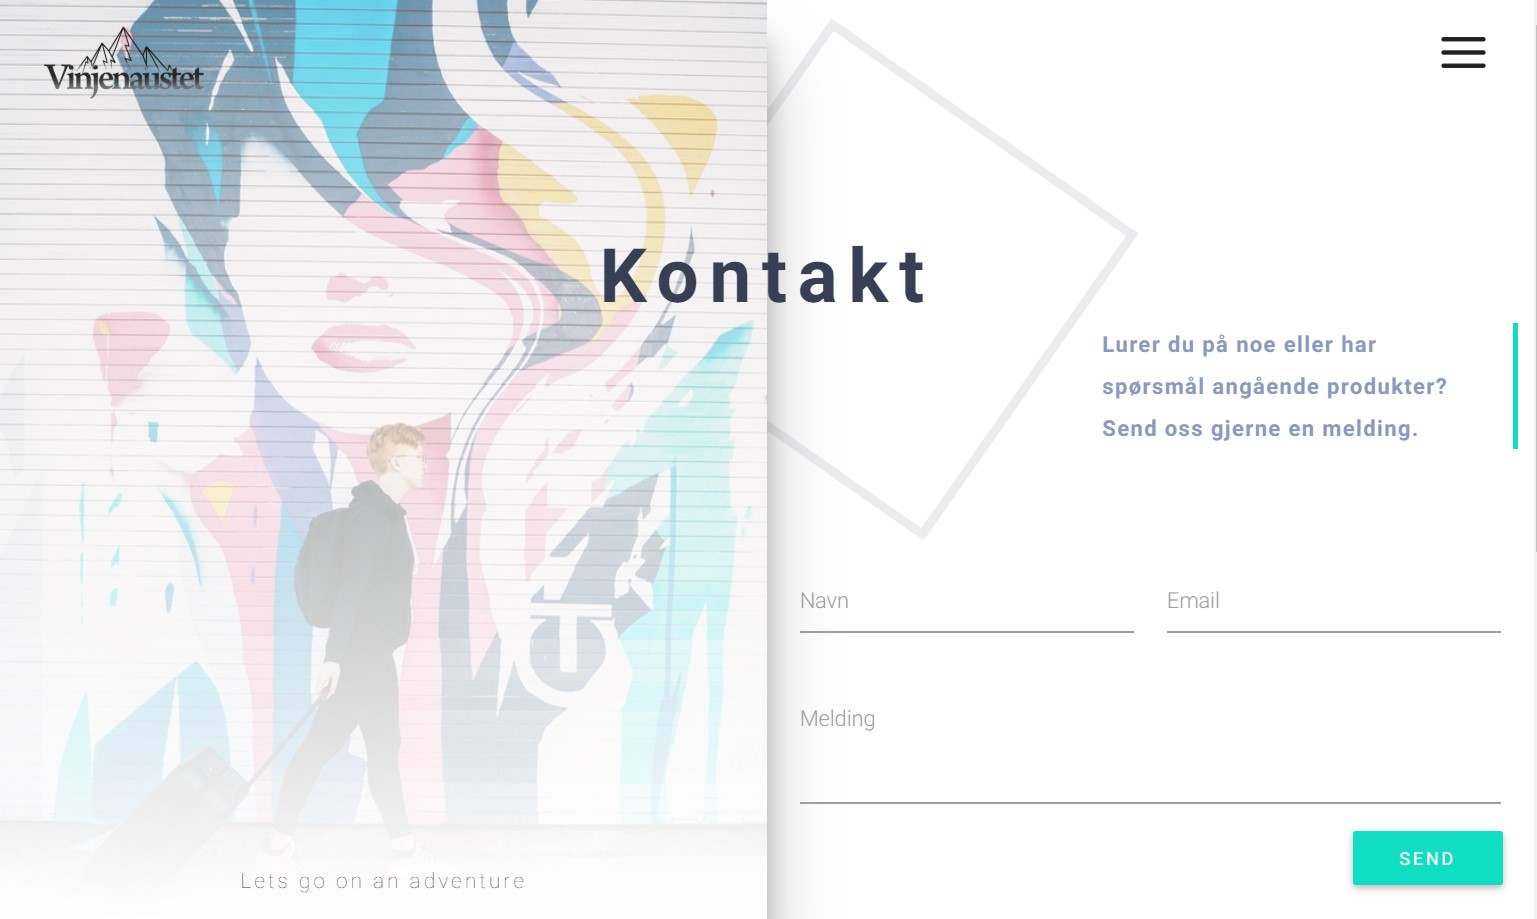
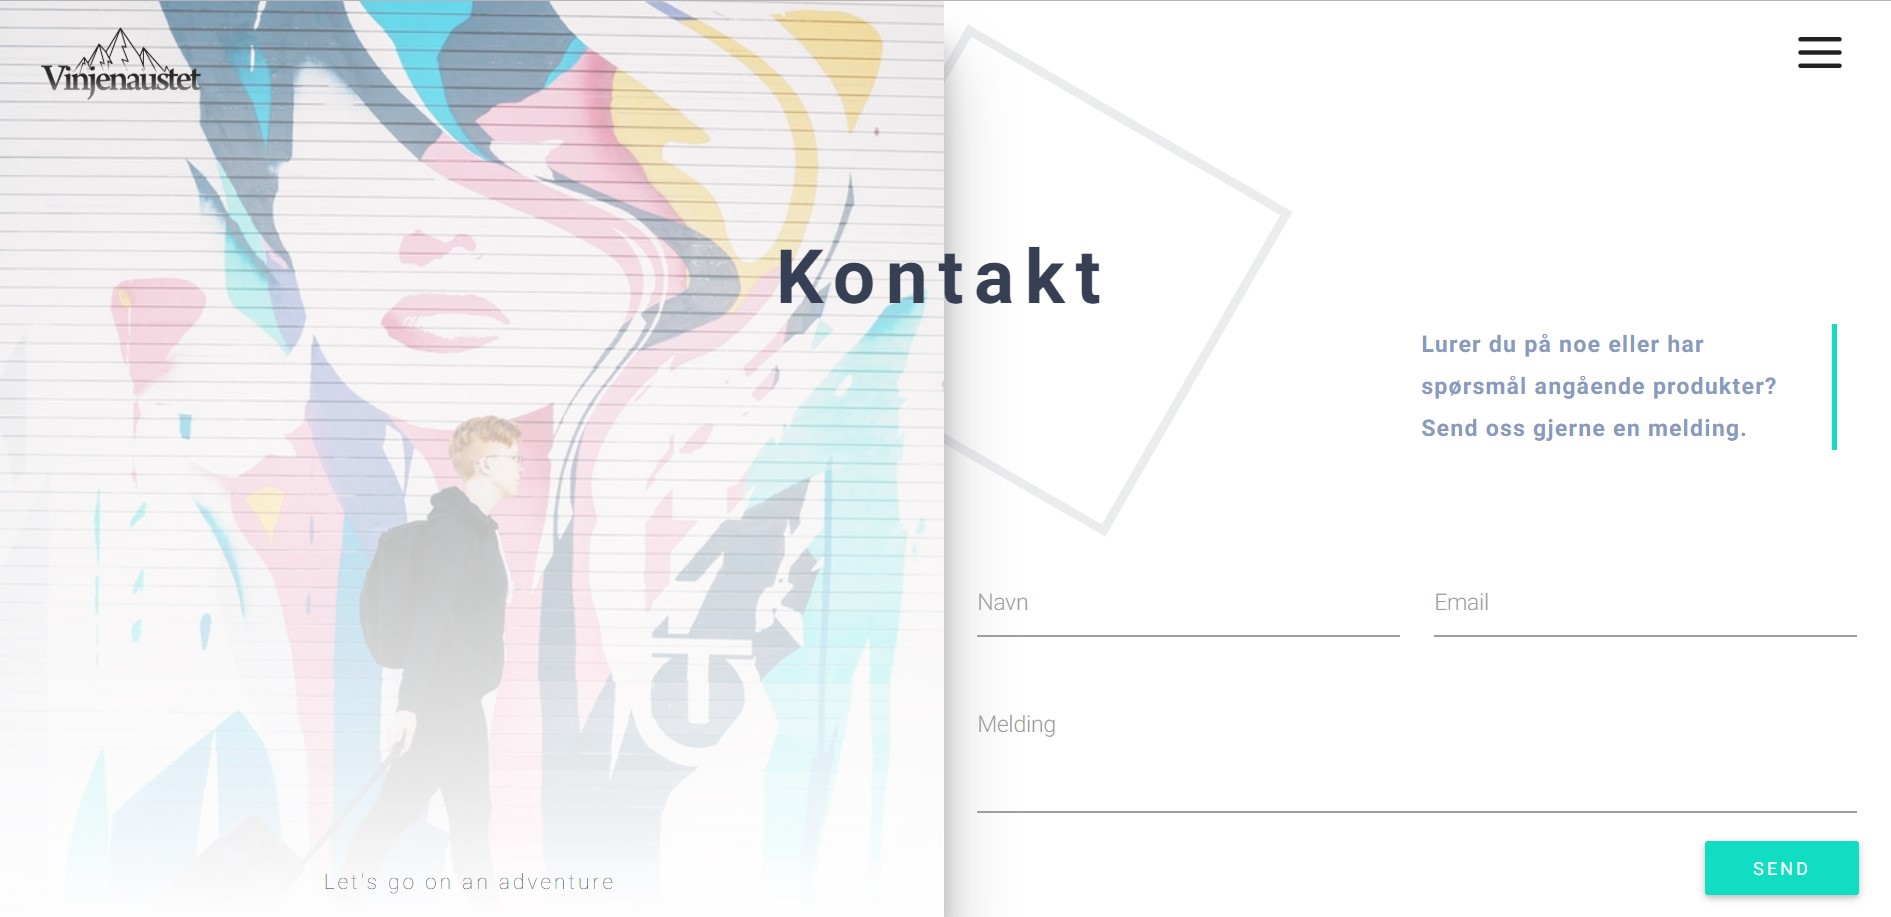
updated spelling

diff --git a/client/src/components/contact/Contact.js b/client/src/components/contact/Contact.js
@@ -20,7 +20,7 @@ export default class Contact extends Component {
             <h1>Kontakt</h1>
             <Row>
                 <div id='contactImg' className='col col-sm-4 col-md-6 col-lg-6 z-depth-5'>
-                    <h5>Lets go on an adventure</h5>
+                    <h5>Let's go on an adventure</h5>
                 </div>
                 <div className='col col-sm-8 col-md-6 col-lg-6'>
                     <div id='contactCont'>
